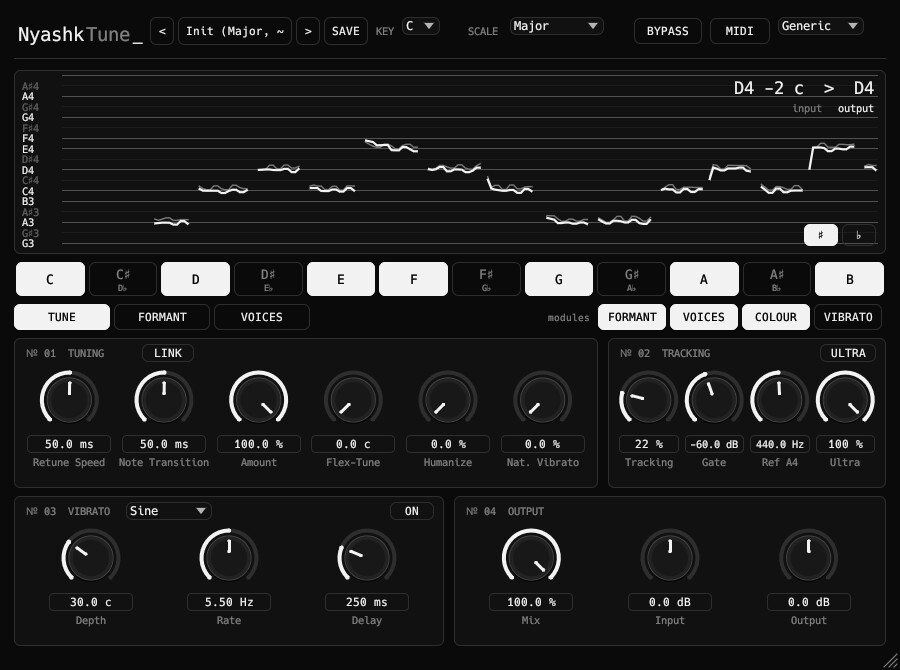
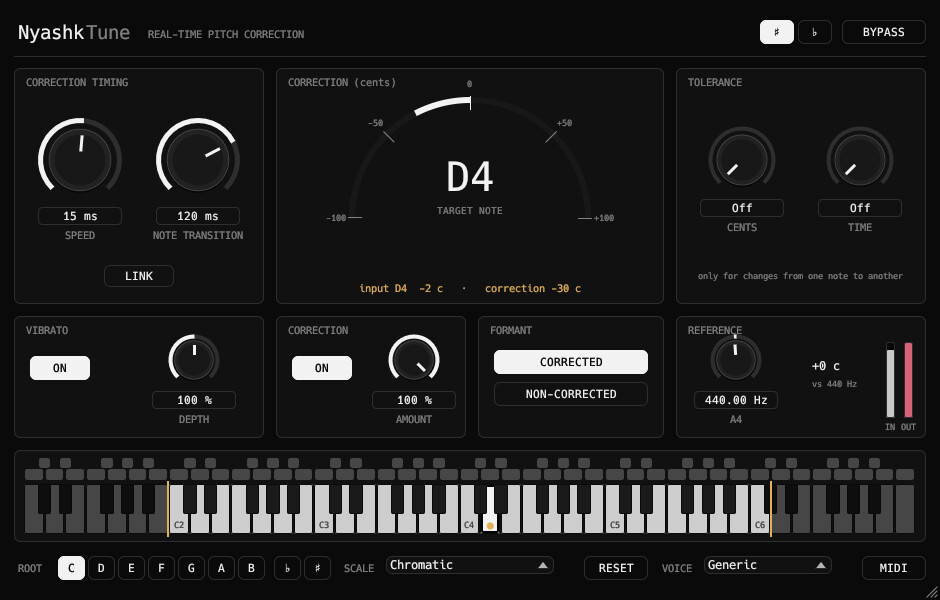
NyashkTune 2.0: new description, features and screenshot
Claude-Session: https://claude.ai/code/session_013jKKu2jZ6gVHt6eEoTXE3F

diff --git a/src/model.rs b/src/model.rs
@@ -111,27 +111,21 @@ pub const BUILTIN: &[PluginDef] = &[
         bundle: "NyashkTune.vst3",
         category: Category::Tool,
         tagline: "Realtime pitch correction",
-        description: "Autotune from transparent natural correction to the hard T-Pain effect, with formant \
-                      control, voices and a preset browser.",
+        description: "Real-time pitch correction with the controls of a classic real-time tuner, from transparent tuning that keeps the singer's vibrato to the hard quantized effect.",
         tags: &["VST3", "Autotune", "Vocal"],
-        long: "Realtime vocal pitch correction, from transparent natural tuning to the hard T-Pain effect. YIN pitch detection with PSOLA resynthesis, 16 scales plus a custom one, formant control, harmony voices and a preset browser.",
+        long: "Real-time vocal pitch correction laid out like a classic hardware-simple tuner: Speed and Note Transition, Tolerance, Vibrato with depth, Correction amount and Formant corrected / non-corrected. The note is chosen on the note centre with the vibrato taken out, so a wide vibrato never flips it, and the tuner never pulls the voice further than its own target.",
         features: &[
-            "Sharps and flats: both spellings on every black key, the ♯ / ♭ switch picks the one used everywhere",
-            "ULTRA: MIDI-like hard steps between notes, dead flat on the note, with an on / off switch",
-            "YIN pitch detection with continuity tracking (no octave jumps), PSOLA resynthesis, mono and stereo",
-            "16 scales plus Custom, key and reference A4; per-note BYPASS for blue notes and slides",
-            "Retune Speed from natural to hard, Flex-Tune, Humanize, Natural Vibrato, synthetic vibrato with four shapes",
-            "MIDI Target: tune to the notes you play",
-            "Transpose, Detune and Formant Shift with 5 algorithms",
-            "2 extra voices (harmony, octave, double) with interval, pan, detune and delay",
-            "Air and Drive colour, voice ranges from Bass to Soprano",
-            "28 presets (including Anime Vocal) and your own saved presets",
+            "Speed (0.1-800 ms) and Note Transition with Link",
+            "Tolerance in cents and time: the note changes only past 50 + tol cents for tol ms",
+            "Vibrato On keeps the singer's vibrato (Depth 0-200 %), Off gives the hard quantized effect",
+            "Correction amount 1-100 %, Formant corrected / non-corrected",
+            "Keyboard note states: Legal, Illegal, pitch up / down, Bypass; drag the correction range",
+            "16 scales plus Custom, root with sharps or flats, Reference A4 415-466 Hz",
+            "Voice ranges from Bass to Soprano, MIDI target, correction meter and IN / OUT meters",
+            "YIN pitch detection with continuity, PSOLA resynthesis that rebuilds the voice unchanged at zero correction",
         ],
         shots: &[
-            Shot { caption: "Tune", data: include_bytes!("../assets/tune_1.jpg") },
-            Shot { caption: "Formant", data: include_bytes!("../assets/tune_2.jpg") },
-            Shot { caption: "Voices", data: include_bytes!("../assets/tune_3.jpg") },
-            Shot { caption: "Preset browser", data: include_bytes!("../assets/tune_4.jpg") },
+            Shot { caption: "Overview", data: include_bytes!("../assets/tune_1.jpg") },
         ],
     },
     PluginDef {
